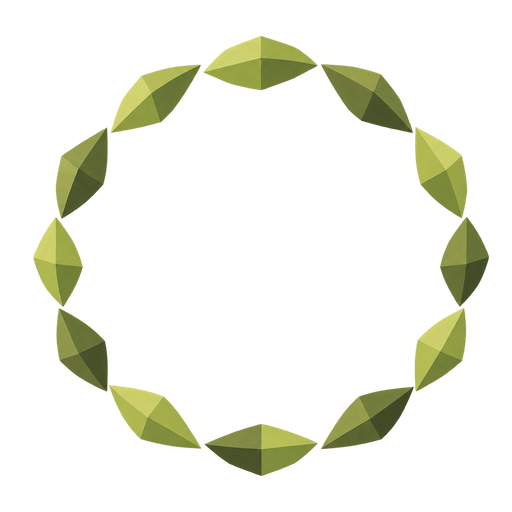
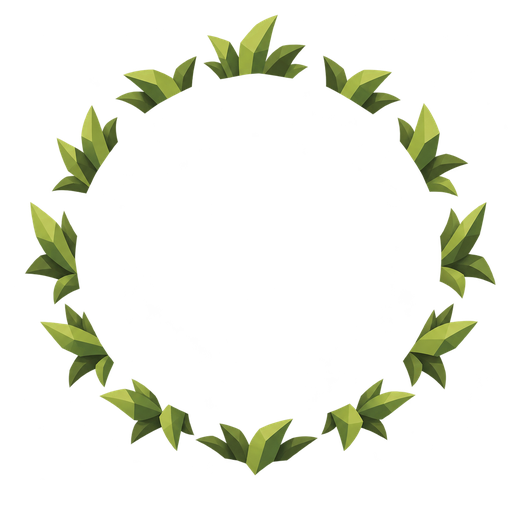
art: use the grass-blade ring for the repair aura
Swaps the chosen aura candidate from v1 to v2. Same path, same guid, same
prefab reference and the same uniform localScale of 6.25, so only the pixels
change.

v2 is built from more parts than the leaf-kite candidate, which was the one
reservation about it. At radius 4 the tufts still read as one boundary rather
than as scatter, and growth standing up out of the ground suits a totem whose
job is to stop things decaying better than a row of detached leaves does.

512x512 RGBA at PPU 400, 85.0% fully transparent, band 9.5% of the diameter,
all four corners alpha 0, no bright-desaturated block, no stray saturated
pixels. The source cropped to 1242x1233, aspect 1.007, so squaring it to the
canvas moved almost nothing.

v1 stays committed as the alternate.

Changed region(s): [[0.0312, 0.0312, 0.9688, 0.9375]]

diff --git a/.art/concept/repair-totem/README.md b/.art/concept/repair-totem/README.md
@@ -193,16 +193,18 @@ what was being removed. `aura-candidates.png` compares all three at the size the
 actually drawn — radius 4 on a 2-unit grid with the totem in the middle — plus a 64px
 readability chip.
 
-- **`RepairAura-v1-leaf-facets-source.png`** (chosen) — twelve large flat leaf kites
-  laid around the circle, each two facet planes split by one hard crease, alternating
-  light and dark nature greens, with transparent gaps between them. Band measures 10.2%
-  of the diameter, which is what the brief asked for, and it is the quietest of the
-  three behind gameplay.
-- **`RepairAura-v2-grass-blades-source.png`** (alternate, not used) — low grass tufts
-  standing around the circle. A clean real-alpha generation and a good look, but it is
-  built from 12 to 14 tufts of several blades each, so at 8 units the parts get small
-  and the ring starts to read as scatter rather than as one boundary. Kept in case a
-  future pass wants the more organic reading.
+- **`RepairAura-v2-grass-blades-source.png`** (chosen) — low grass tufts standing
+  around the circle, each blade a single flat tapering plane, in the nature greens with
+  transparent gaps between the tufts. Band measures 9.5% of the diameter against the
+  brief's ten percent. It is built from more parts than the leaf-kite candidate, which
+  was the one reservation about it, but at radius 4 the tufts still read as one
+  boundary rather than as scatter, and the growth reading suits a totem that keeps
+  things from decaying better than a row of detached leaves does.
+- **`RepairAura-v1-leaf-facets-source.png`** (alternate, not used) — twelve large flat
+  leaf kites laid around the circle, each two facet planes split by one hard crease,
+  alternating light and dark nature greens. Band 10.2%, the quietest of the three, and
+  the safest against the density rule. Kept in case a future pass wants the plainer
+  reading.
 - **v3, a woven root band** (prompt kept, image not committed) — a closed pale-wood
   rope hoop with four leaf clusters. Its first `image_gen` call came back opaque and the
   generating agent then ran a connected-component script to manufacture an alpha channel,
@@ -217,9 +219,9 @@ readability chip.
 shorter axis to a square before resizing, instead of trimming tight. `AuraRadiusScaler`
 scales each axis by half the sprite rect on that axis, so a square canvas is what makes
 the drawn circle round in world units and keeps the prefab's `localScale` uniform at
-6.25. The chosen source cropped to 1230x1207 (aspect 1.019), so squaring it moved almost
-nothing. The finished sprite is 512x512 RGBA at PPU 400, 83.9% fully transparent, band
-10.3% of the diameter, all four corners alpha 0, no bright-desaturated block and no
+6.25. The chosen source cropped to 1242x1233 (aspect 1.007), so squaring it moved almost
+nothing. The finished sprite is 512x512 RGBA at PPU 400, 85.0% fully transparent, band
+9.5% of the diameter, all four corners alpha 0, no bright-desaturated block and no
 stray saturated pixels.
 
 `preview-aura.py` renders `aura-preview.png` by applying the camera's 45° projection by
